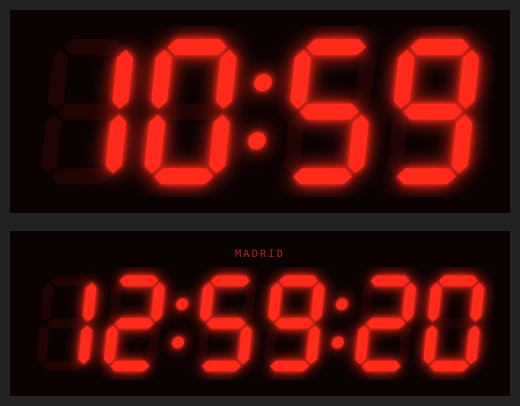
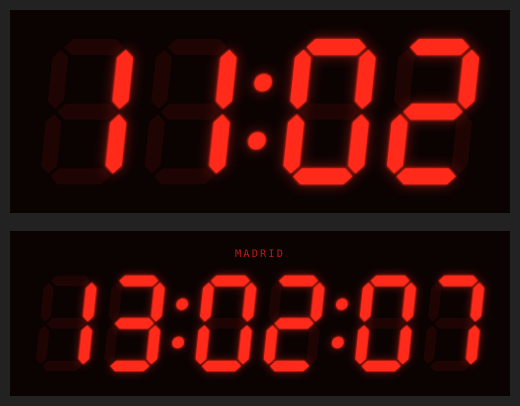
Soften the segment glow
Claude-Session: https://claude.ai/code/session_01KfxBeC2wdSb2g3kpEx4FKD

diff --git a/ha80s-digital-clock.js b/ha80s-digital-clock.js
@@ -207,7 +207,7 @@ class Ha80sDigitalClock extends HTMLElement {
         svg { width: 100%; height: auto; max-height: 100%; min-height: 0; display: block; }
         .seg { fill: ${c.color}; opacity: ${c.ghost_opacity}; transition: opacity 0.08s linear; }
         .seg.on, .colon.on .seg { opacity: 1; }
-        ${c.glow ? `.seg.on, .colon.on .seg { filter: drop-shadow(0 0 2px ${c.color}) drop-shadow(0 0 6px ${c.color}); }` : ""}
+        ${c.glow ? `.seg.on, .colon.on .seg { filter: drop-shadow(0 0 1px ${c.color}) drop-shadow(0 0 4px color-mix(in srgb, ${c.color} 45%, transparent)); }` : ""}
       </style>
       <ha-card>
         ${c.title ? `<div class="title">${String(c.title).replace(/[&<>"]/g, "")}</div>` : ""}
